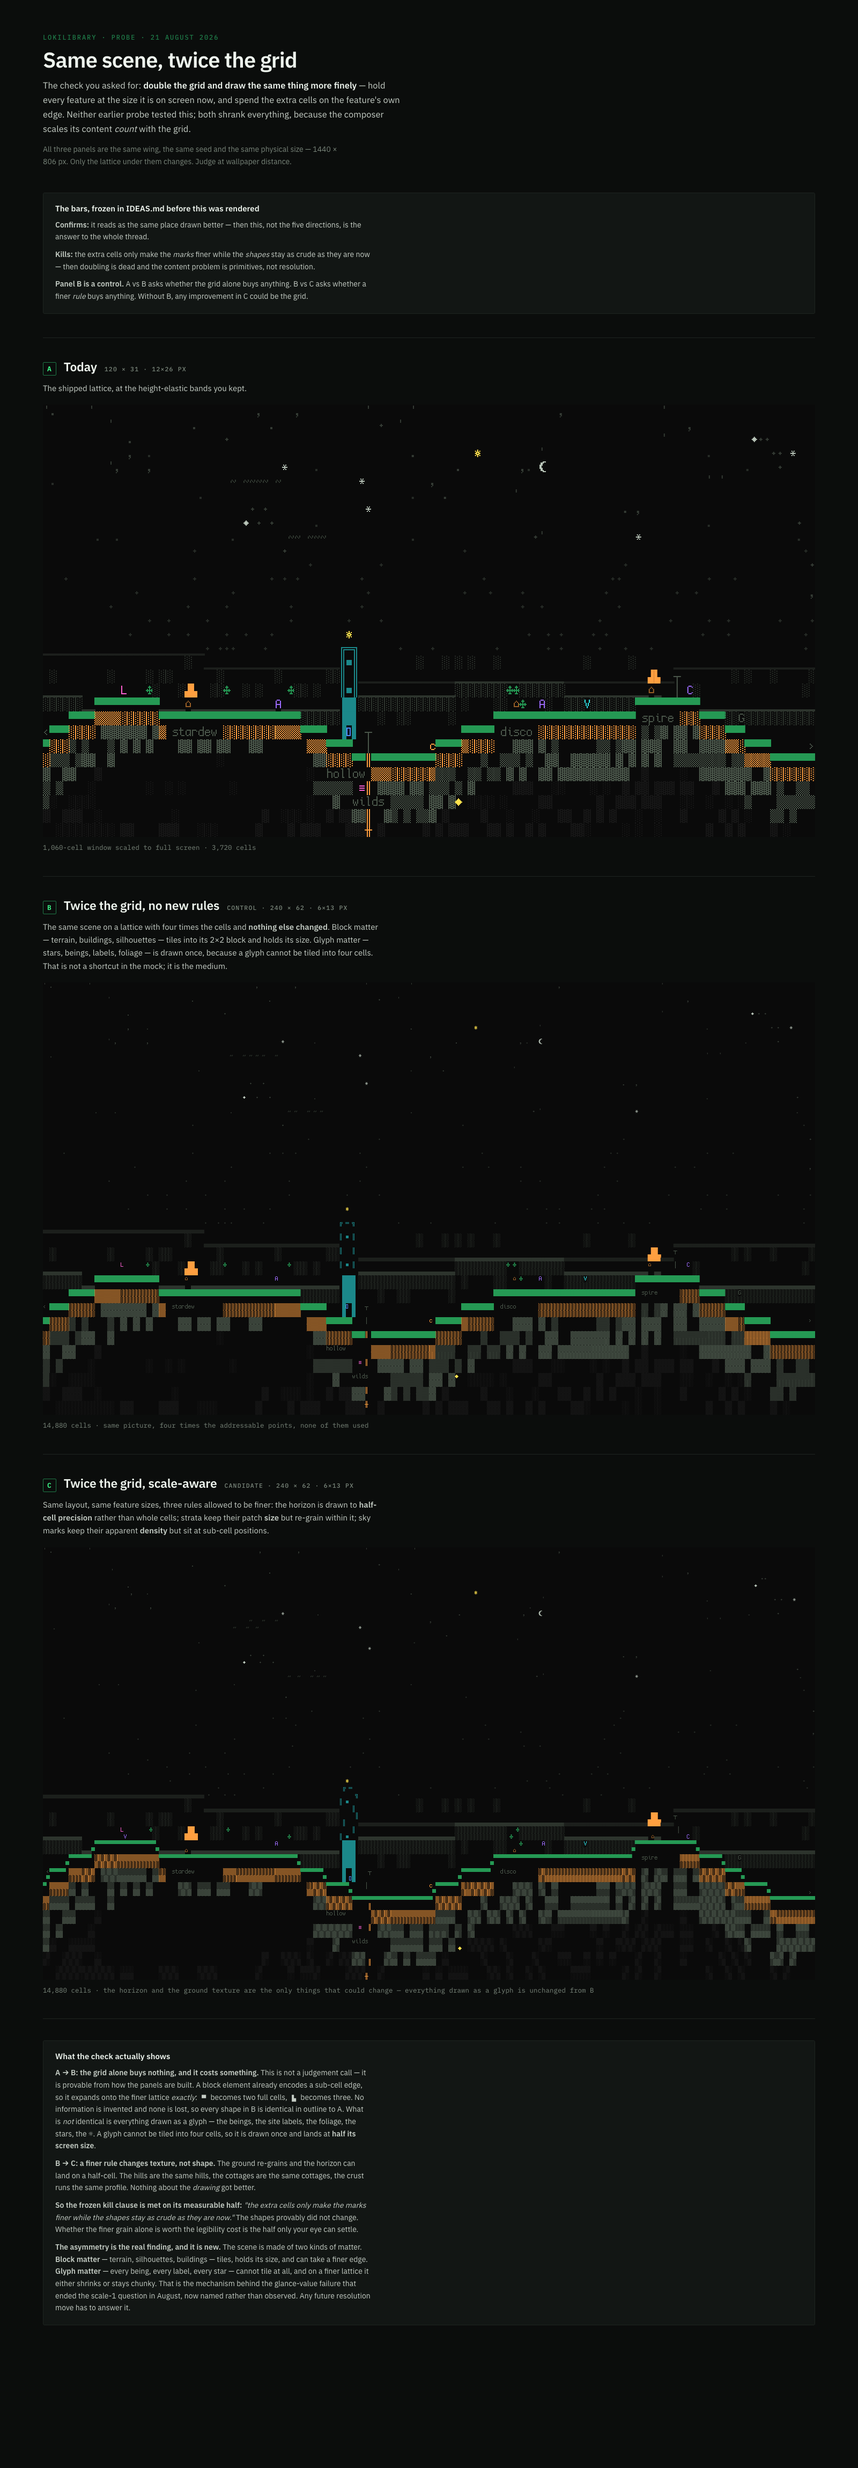
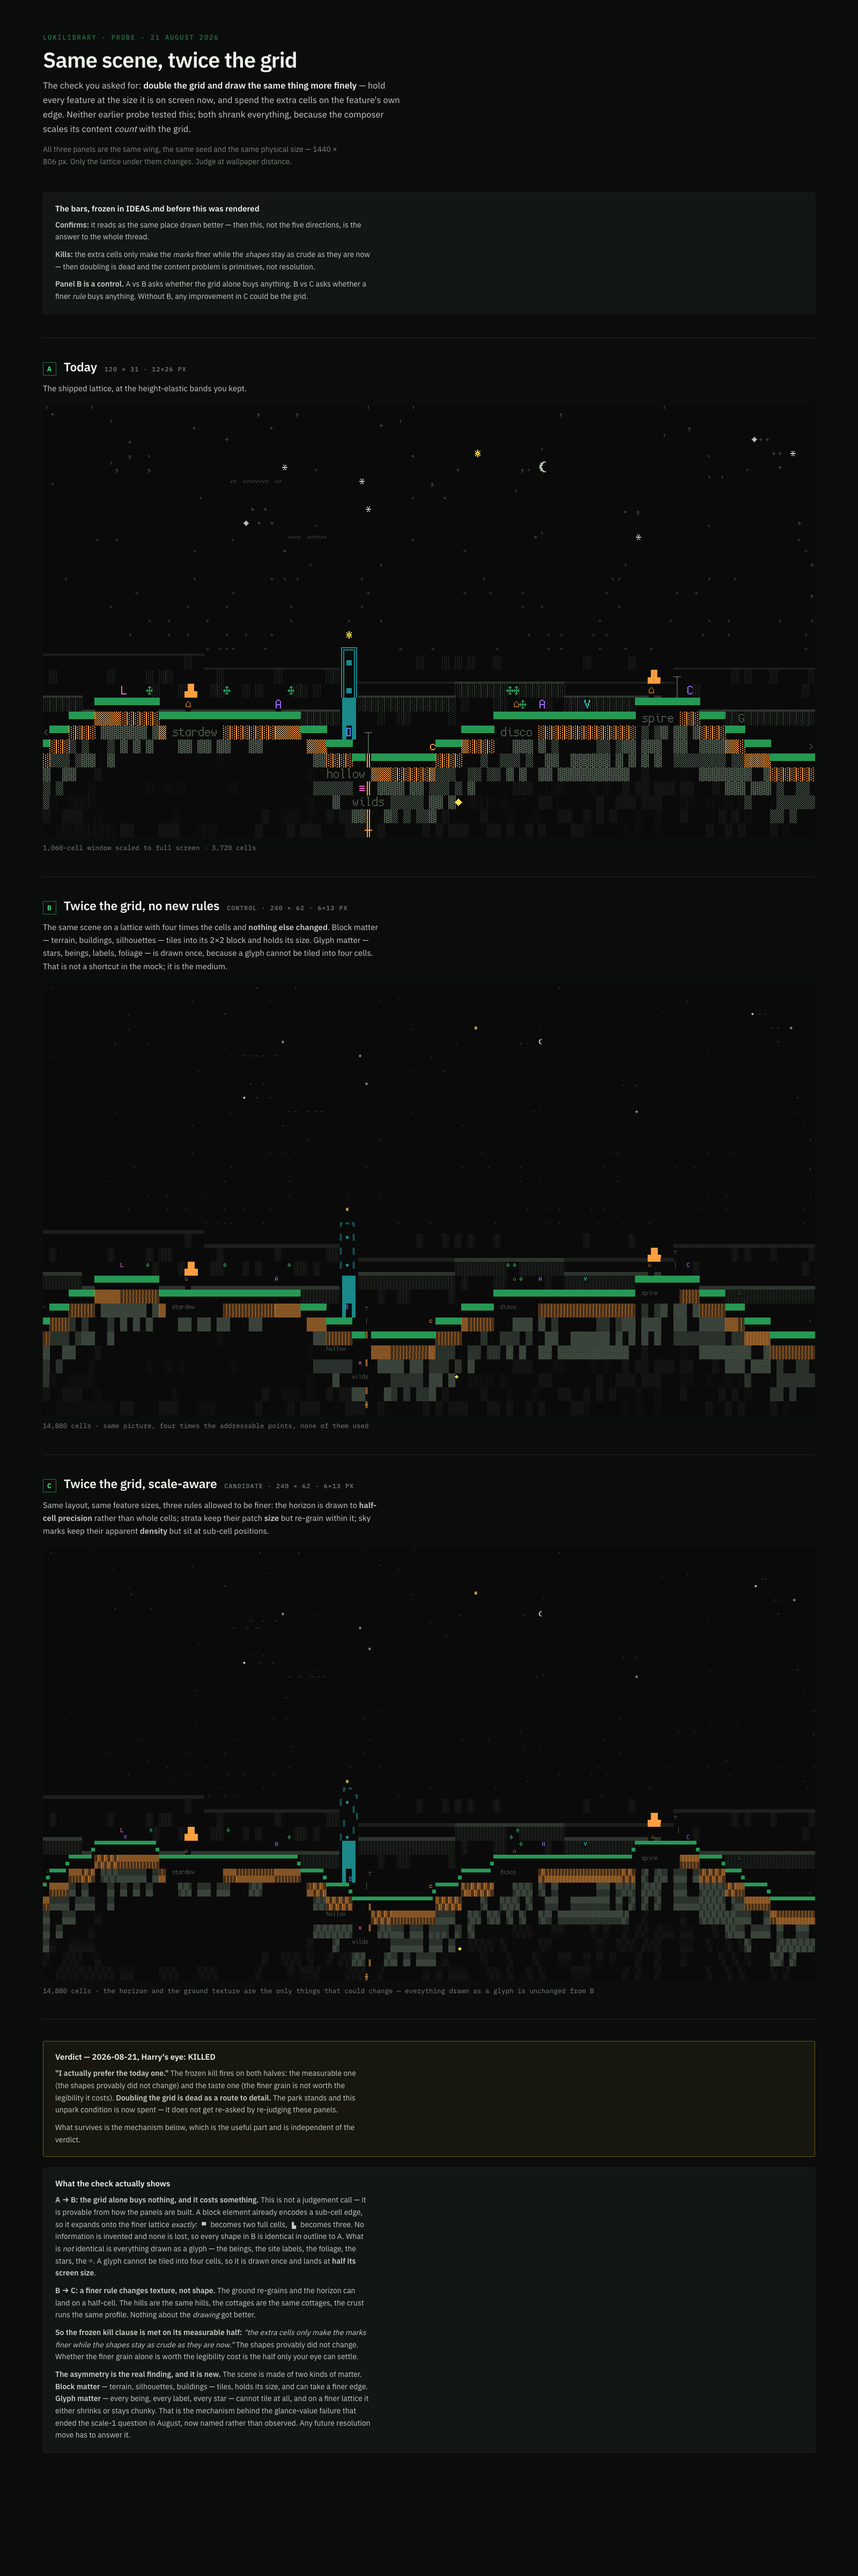
docs: doubling the grid KILLED — the resolution axis is exhausted
Harry's eye on the scale-aware probe: "I actually prefer the today one."
The frozen kill fires on both halves — the measurable (shapes provably
unchanged between A and B, because block elements expand exactly) and the
taste (the finer grain is not worth the legibility it costs). The unpark
condition is spent and is not re-asked by re-judging these panels.

With scale 1 judged 2026-08-17 and doubling judged now, nothing left on
this thread is about the lattice. What stays open is primitives — the
bigger-jump directions 01-05, none killed — and the fine-lattice mural
rect the 08-17 verdict routed to and nobody ever built.

Kept: a glyph grid holds two kinds of matter. Block matter tiles and holds
its screen size; glyph matter cannot tile and halves. Resolution is
necessary but never sufficient.

Nothing shipped all session. WORLD_SCALE is 2; typecheck clean and
smoke-land-aperture 26 / under-land 92 / land-mural 21 byte-identical.

diff --git a/docs/design-reviews/2026-08-21-scale-aware.html b/docs/design-reviews/2026-08-21-scale-aware.html
@@ -236,7 +236,17 @@ code{font:500 13px/1 'IBM Plex Mono',monospace;color:var(--ink);background:var(-
 </section>
 
 <div class="rule"></div>
-<div class="barbox" style="margin-top:40px">
+<div class="barbox" style="margin-top:40px;border-color:#6b5c14;background:rgba(255,225,77,.05)">
+  <h3>Verdict — 2026-08-21, Harry's eye: KILLED</h3>
+  <p><b>"I actually prefer the today one."</b> The frozen kill fires on both halves: the measurable
+  one (the shapes provably did not change) and the taste one (the finer grain is not worth the
+  legibility it costs). <b>Doubling the grid is dead as a route to detail.</b> The park stands and
+  this unpark condition is now spent — it does not get re-asked by re-judging these panels.</p>
+  <p>What survives is the mechanism below, which is the useful part and is independent of the
+  verdict.</p>
+</div>
+
+<div class="barbox" style="margin-top:20px">
   <h3>What the check actually shows</h3>
   <p><b>A → B: the grid alone buys nothing, and it costs something.</b> This is not a judgement
   call — it is provable from how the panels are built. A block element already encodes a sub-cell

diff --git a/TODO-USER.md b/TODO-USER.md
@@ -13,7 +13,16 @@ doesn't get buried in chat messages that scroll out of context.
 unblocks me, and a pointer to where the blocked work lives. Mark
 items DONE / SKIP and I'll prune them on the next slice.
 
-Last updated: **2026-08-21, later** (DETAIL THREAD judged and PARKED. The
+Last updated: **2026-08-21, session close** (DETAIL THREAD CLOSED. The
+"double the grid, same scene finer" check ran and Harry judged it: "I actually
+prefer the today one" — the frozen kill fires on both halves, so doubling is
+DEAD and its unpark condition is spent. With scale 1 judged 08-17 and doubling
+judged now, **the resolution axis is exhausted**: nothing left on this thread is
+about the lattice. What stays open is primitives — bigger-jump directions 01-05,
+none killed — and the fine-lattice mural rect the 08-17 verdict routed to and
+nobody ever built. NOTHING SHIPPED this session; WORLD_SCALE is still 2 and every
+golden is byte-identical. No eyeball is owed on this thread.)
+Previously **2026-08-21, later** (detail thread judged and parked. The
 height-elastic eyeball came back "I like B" (K3 never fired), but the follow-on
 was that the scene INSIDE B needs a bigger jump — so a five-direction round was
 built and none of them jumped out. All five stay OPEN, nothing killed. What
@@ -466,6 +475,19 @@ session if convenient:
 ---
 
 ## Done / skipped (kept for posterity until next slice prunes)
+
+- ✅ **The "double the grid" check — JUDGED 2026-08-21, KILLED**: "I actually
+  prefer the today one." Harry's own idea, tested with a control panel: A today,
+  B 2x with no new rules, C 2x scale-aware, all at identical PHYSICAL size. The
+  kill fires on both halves — A→B is provably shape-identical (block elements
+  encode sub-cell edges, so they expand exactly), and the finer grain in C is not
+  worth the legibility it costs. The unpark condition is spent; the resolution
+  axis is exhausted. Durable finding kept: a glyph grid holds BLOCK matter
+  (tiles, holds screen size, takes a finer edge) and GLYPH matter (beings,
+  labels, stars — cannot tile, halves in size), which is the named mechanism
+  behind the 08-17 glance failure. Probe:
+  `docs/design-reviews/2026-08-21-scale-aware.html`; brain note
+  `a-glyph-grid-holds-two-kinds-of-matter`.
 
 - ✅ **EYEBALL height-elastic sky — JUDGED 2026-08-21, same day**: "I like
   B." B preferred over A (today full-screen: 20 world rows + 11 of bare

diff --git a/STATE.md b/STATE.md
@@ -3360,7 +3360,13 @@ to the thread. Kills → only the marks get finer while the shapes stay as crude
 as they are, and the content problem is primitives, not resolution (routes back
 to 03/05).
 
-**4 · The unpark check RAN the same day** (`scripts/probe-scale-aware.mts`,
+**4 · The unpark check RAN and was JUDGED the same day — KILLED.** Harry:
+*"I actually prefer the today one."* The frozen kill fires on both halves, the
+measurable and the taste. **Doubling the grid is dead as a route to detail and
+the unpark condition is spent.** With scale 1 judged 2026-08-17 and doubling
+judged now, **the resolution axis is exhausted** — no remaining move on this
+thread is about the lattice; what is left is primitives (directions 03/05) and
+the never-built fine-lattice mural rect. Detail of the check: (`scripts/probe-scale-aware.mts`,
 `docs/design-reviews/2026-08-21-scale-aware.html`). Three panels at identical
 PHYSICAL size (1440×806) — A today 120×31 @ 12×26, **B a CONTROL** (2×, no new
 rules, so no gain can be credited to the lattice), C 2× scale-aware (horizon at

diff --git a/IDEAS.md b/IDEAS.md
@@ -962,7 +962,17 @@ constant, and put it beside today's.
   crude as they are now — then doubling is dead and the content problem is
   confirmed to be primitives, not resolution, which routes back to 03/05.
 
-#### The check RAN, same day (2026-08-21) — kill clause met on its measurable half
+#### The check RAN and was JUDGED, same day (2026-08-21) — KILLED
+
+**Harry's eye, verbatim: "I actually prefer the today one."** The frozen kill
+fires on BOTH halves — the measurable one (the shapes provably did not change)
+and the taste one (the finer grain is not worth the legibility it costs).
+**Doubling the grid is dead as a route to detail, and this unpark condition is
+spent** — it is not re-asked by re-judging these panels. With scale 1 judged on
+2026-08-17 and doubling judged now, **the resolution axis is exhausted**: no
+remaining move on this thread is about the lattice.
+
+The evidence below stands as the record of why.
 
 `docs/design-reviews/2026-08-21-scale-aware.html`, generator
 `scripts/probe-scale-aware.mts`. Three panels at identical physical size
